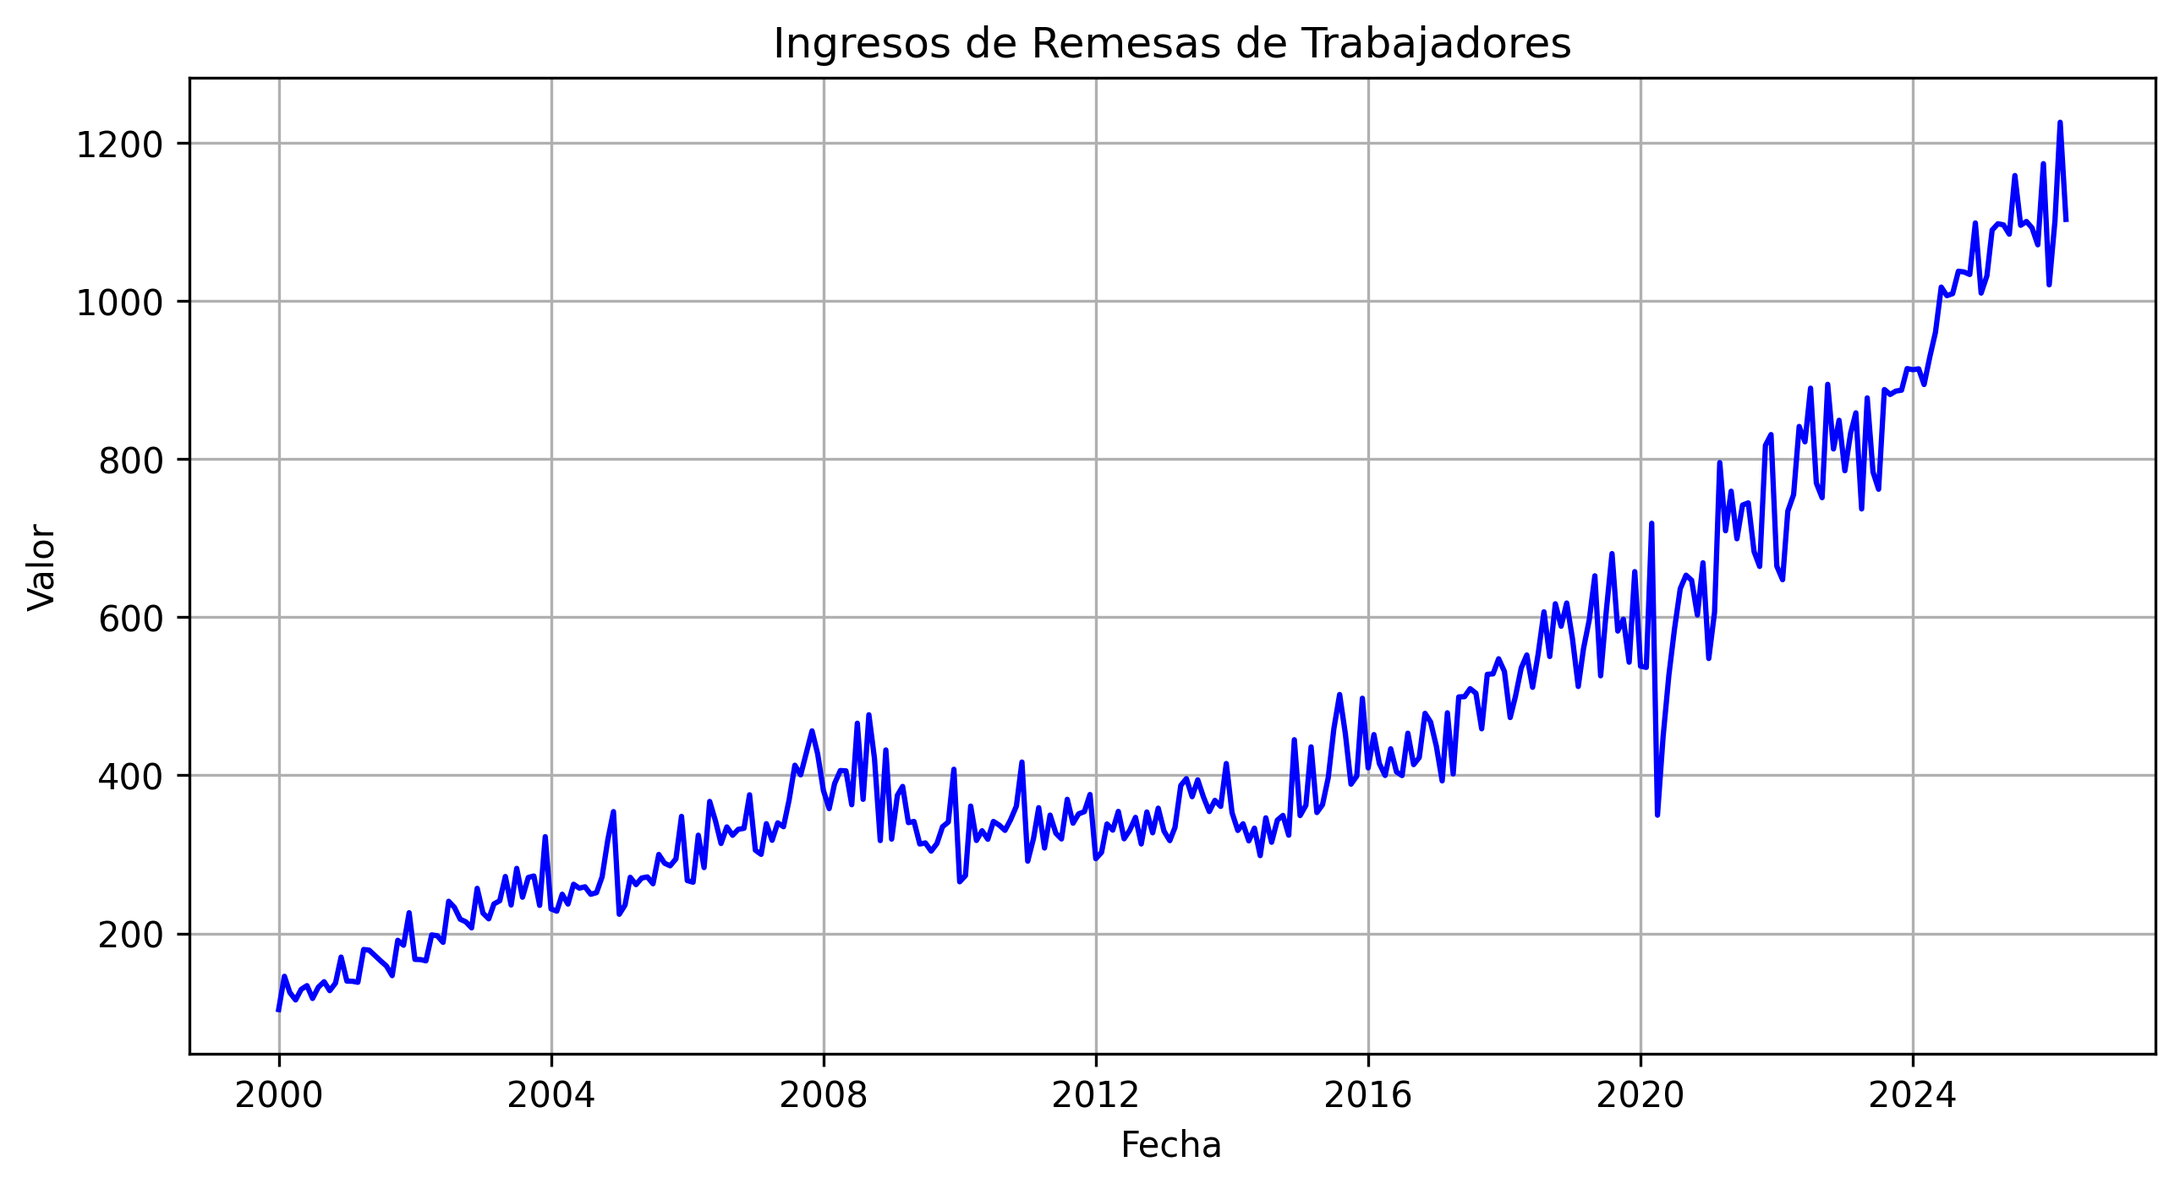
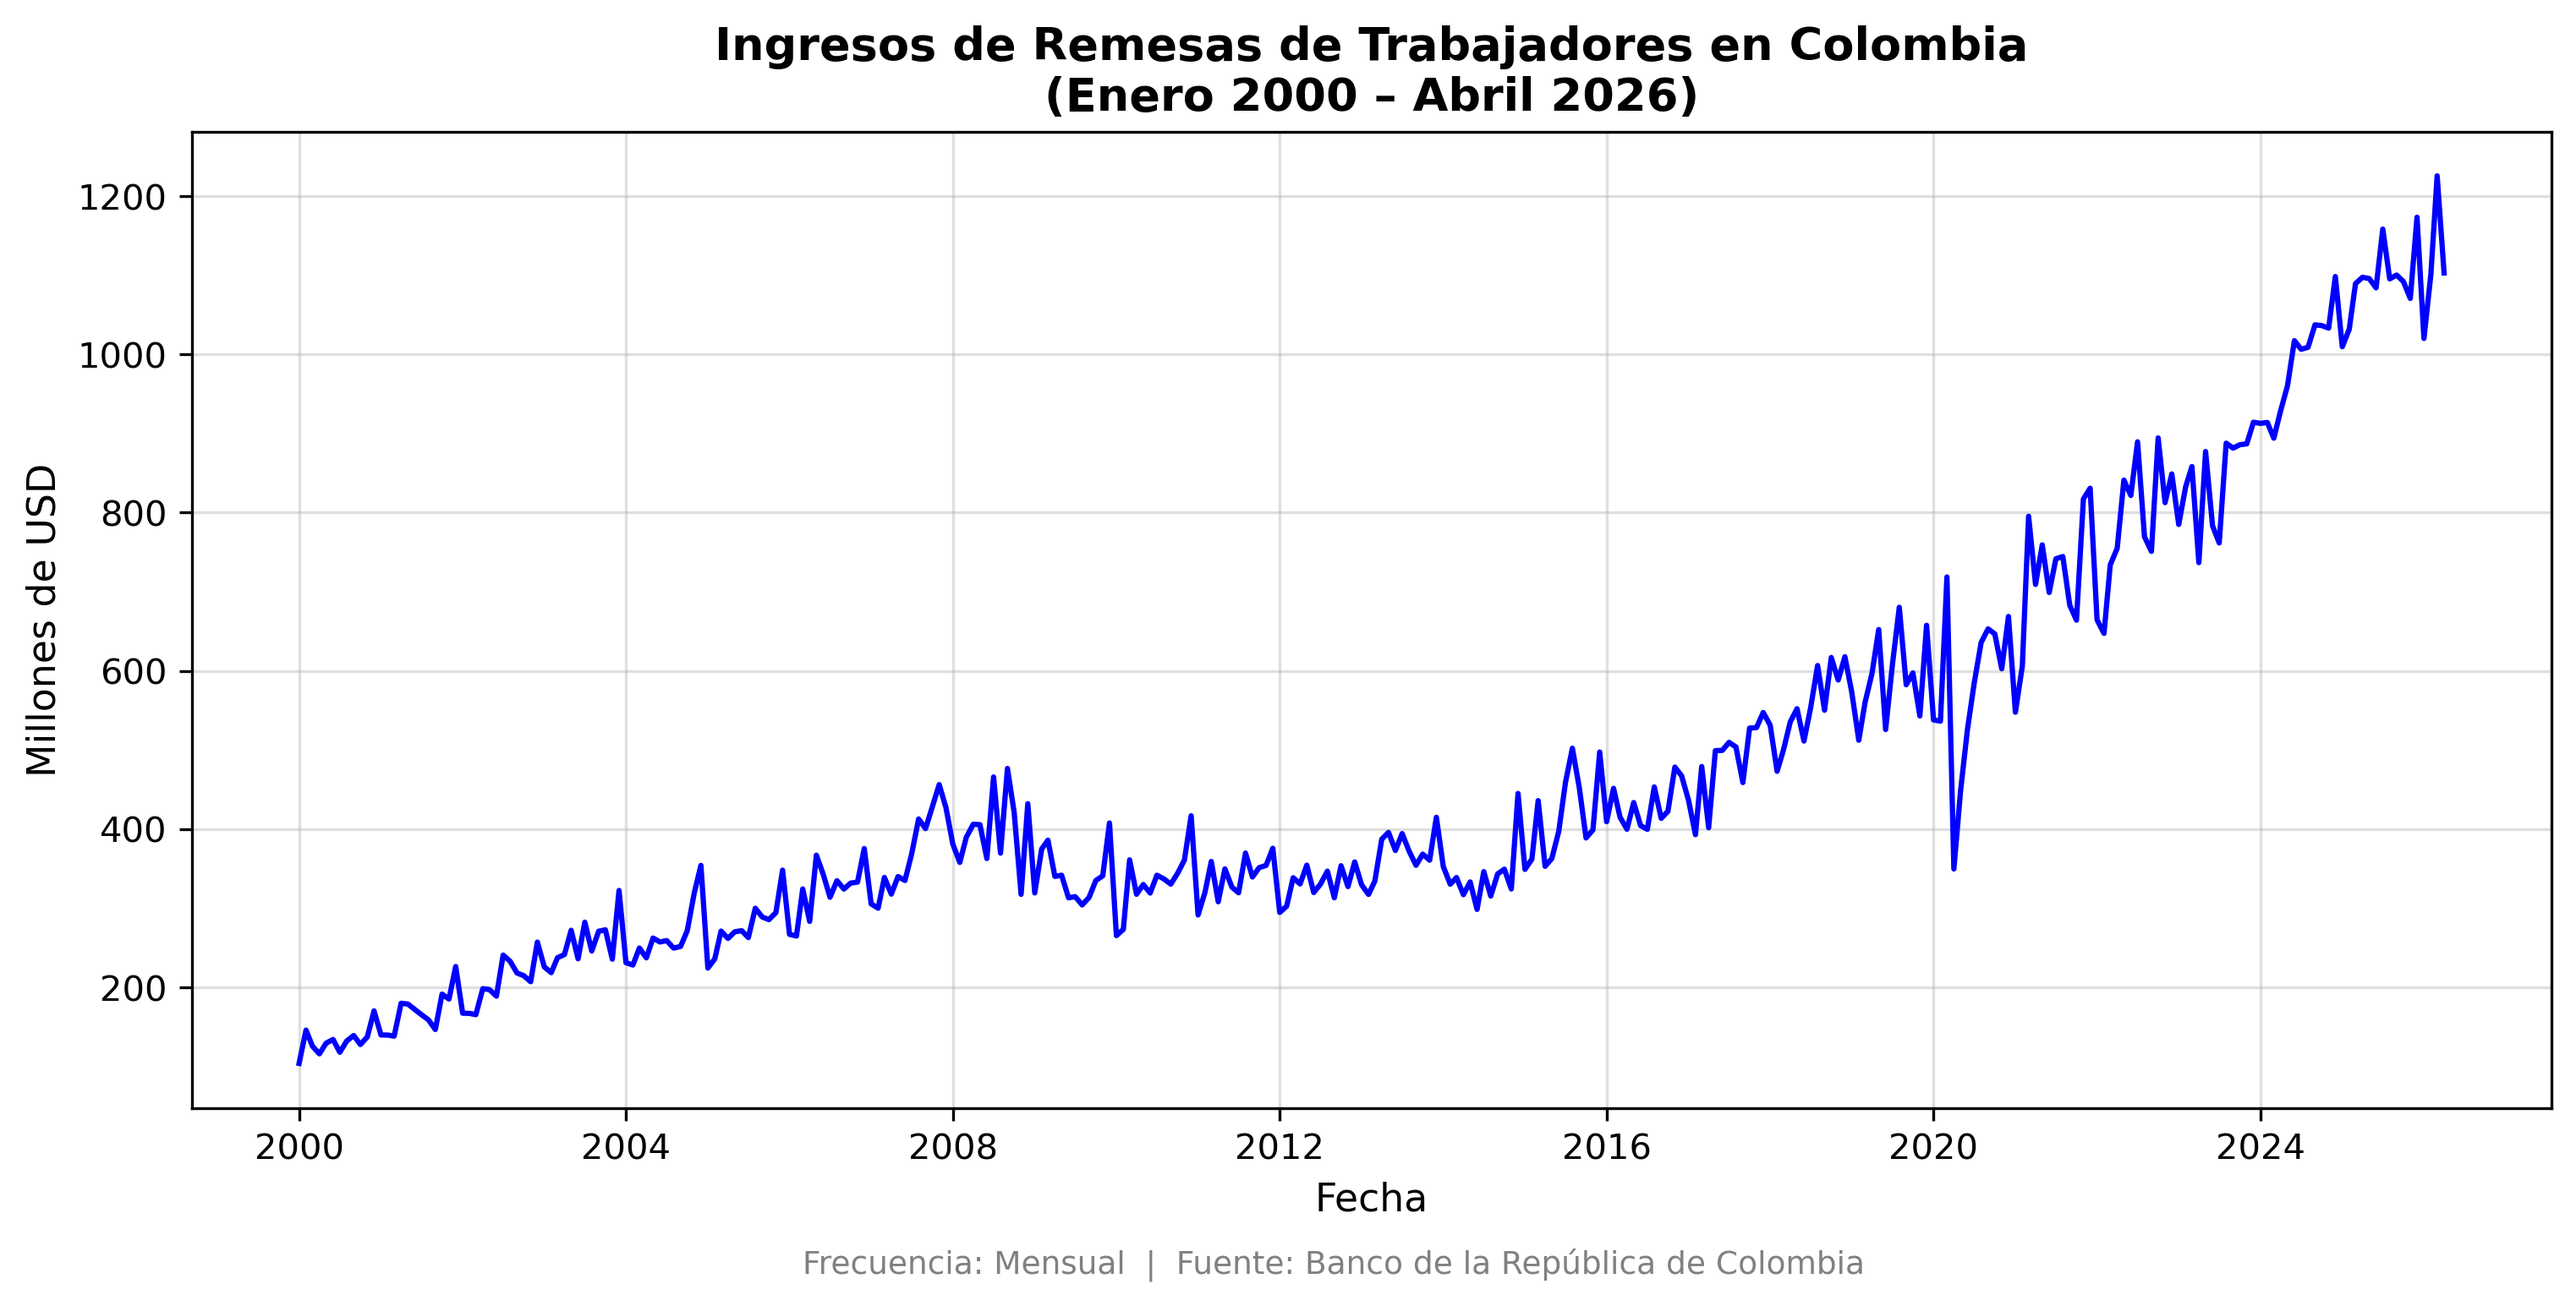
modificaciones

diff --git a/Códigos/archivo1.py b/Códigos/archivo1.py
@@ -29,71 +29,78 @@ RESULTS_DIR = BASE_DIR / "Resultados"
 RESULTS_DIR.mkdir(parents=True, exist_ok=True)
 
 # Rutas de las bases de datos 
-ruta_exp = DATA_DIR / "datos.xlsx" # Base de datos de remesas
+ruta_datos = DATA_DIR / "datos.xlsx" # Base de datos de remesas
 
 
 # %% Cargar y limpiar base de datos =========================
 
 # Base de datos con la serie importada a python
-expo_base = pd.read_excel(
-    ruta_exp,
-    header=None,
-    names=["Ingresos de Remesas de trabajadores"]
+remesas_base = pd.read_excel(
+    ruta_datos,
+    header=0,  # La primera fila contiene los nombres de las columnas
 )
+remesas_base.columns = ["Fecha", "Ingresos de Remesas de trabajadores"] #Nombrar columnas de forma explícita para evitar problemas de lectura
 
 # --- LIMPIEZA DE DATOS (Crucial para eliminar textos informativos y vacíos al final) ---
-# Forzamos la conversión a numérico (los textos del final se convertirán en NaN)
-expo_base["Ingresos de Remesas de trabajadores"] = pd.to_numeric(
-    expo_base["Ingresos de Remesas de trabajadores"], 
+# Convertir Remesas a numérico (los textos del final se convertirán en NaN)
+remesas_base["Ingresos de Remesas de trabajadores"] = pd.to_numeric(
+    remesas_base["Ingresos de Remesas de trabajadores"], 
     errors="coerce"
 )
+# Convertir Fecha a formato datetime (si es necesario)
+remesas_base["Fecha"] = pd.to_datetime(remesas_base["Fecha"], errors="coerce")
+
 # Eliminamos todas las filas que contengan NaN
-expo_base = expo_base.dropna()
+remesas_base = remesas_base.dropna()
 
 # Ver el tipo de objeto de la base de datos (Pandas.DataFrame)
 print("\n--- Información de la Base de Datos ---")
-print(type(expo_base))
+print(type(remesas_base))
+print(f"\nNúmero de observaciones: {len(remesas_base)}") #Confirmar el número de observaciones después de la limpieza
 
 # Ver primeras y últimas observaciones de la base de datos ya limpia
 print("\nPrimeras observaciones cargadas:")
-print(expo_base.head()) 
+print(remesas_base.head()) 
 print("\nÚltimas observaciones cargadas:")
-print(expo_base.tail()) 
+print(remesas_base.tail()) 
 
 
 # %% Creación del índice temporal de las series de tiempo
 
 # Creación del índice temporal (Inicia en 2000 según tus datos)
-fechas_expo_base = pd.date_range(
+fechas_remesas_base = pd.date_range(
     start="2000-01-01", 
-    periods=len(expo_base),
+    periods=len(remesas_base),
     freq="MS"
 )
 
 # Agregar el índice temporal a la base de datos
-expo_base.index = fechas_expo_base
+remesas_base.index = fechas_remesas_base
 
 # Ver primeras y últimas observaciones de la base de datos, ahora con índice temporal
 print("\n--- Base de Datos con Índice Temporal ---")
-print(expo_base.head()) 
-print(expo_base.tail()) 
+print(remesas_base.head()) 
+print(remesas_base.tail()) 
 
 
 # %% Creación de la serie de tiempo de "remesas"
 
-# La nueva serie de tiempo se va a llamar "expo_serie" (para mantener consistencia con tu código)
+# La nueva serie de tiempo se va a llamar "remesas_serie" (para mantener consistencia con tu código)
 # pero ahora apunta a la columna correcta
-expo_serie = expo_base["Ingresos de Remesas de trabajadores"].copy()
+remesas_serie = remesas_base["Ingresos de Remesas de trabajadores"].copy()
 
 # Ver el principio y final de la serie de tiempo
-print("\n--- Serie Temporal Seleccionada (expo_serie) ---")
-print(expo_serie.head())
-print(expo_serie.tail())
-print(type(expo_serie))
+print("\n--- Serie Temporal Seleccionada (remesas_serie) ---")
+print(remesas_serie.head())
+print(remesas_serie.tail())
+print(type(remesas_serie))
 
 # Ver algunas estadísticas descriptivas de la serie de tiempo 
 print("\nEstadísticas descriptivas:")
-print(expo_serie.describe())
+print(remesas_serie.describe())
+print(f"\nUnidad: Millones de dólares (USD)")
+print(f"Frecuencia: Mensual")
+print(f"Fuente: Banco de la República de Colombia")
 
 
 # %% =========================
@@ -101,12 +108,22 @@ print(expo_serie.describe())
 # ============================
 
 # Gráfica de la serie de tiempo "Remesas de trabajadores"
-plt.figure(figsize=(10, 5))
-plt.plot(expo_serie, color="blue", linewidth=1.5)
-plt.title("Ingresos de Remesas de Trabajadores")
-plt.xlabel("Fecha")
-plt.ylabel("Valor")
-plt.grid(True)
+plt.figure(figsize=(12, 5))
+plt.plot(remesas_serie, color="blue", linewidth=1.5)
+plt.title("Ingresos de Remesas de Trabajadores en Colombia\n(Enero 2000 – Abril 2026)", 
+          fontsize=13, fontweight="bold")
+plt.xlabel("Fecha", fontsize=11)
+plt.ylabel("Millones de USD", fontsize=11)  #unidades
+plt.grid(True, alpha=0.4)
+
+# Nota al pie con frecuencia y fuente
+plt.figtext(
+    0.5, -0.02,  # posición: centrado, debajo de la gráfica
+    "Frecuencia: Mensual  |  Fuente: Banco de la República de Colombia",
+    ha="center",  # alineado al centro
+    fontsize=9,
+    color="gray"
+)
 # Guardar gráfico en carpeta de resultados antes de mostrarlo
 plt.savefig(RESULTS_DIR / "01_remesas_original.png", dpi=300, bbox_inches="tight")
 plt.show()
@@ -116,22 +133,25 @@ plt.show()
 fig, axes = plt.subplots(1, 2, figsize=(14, 5))
 
 plot_acf(
-    expo_serie,
+    remesas_serie,
     lags=24,
     alpha=0.05,
     bartlett_confint=False,
     ax=axes[0]
 )
-axes[0].set_title("FAC Remesas de Trabajadores")
+axes[0].set_title("FAC Remesas de Trabajadores", fontsize=12)
+axes[0].set_xlabel("Rezagos")
 
 plot_pacf(
-    expo_serie,
+    remesas_serie,
     lags=24,
     alpha=0.05,
     ax=axes[1]
 )
-axes[1].set_title("FACP de la serie original")
+axes[1].set_title("FACP de la serie original", fontsize=12)
+axes[1].set_xlabel("Rezagos")
 
+plt.suptitle("Funciones de Autocorrelación — Serie Original", fontsize=13, fontweight="bold")
 plt.tight_layout()
 # Guardar gráfico en carpeta de resultados antes de mostrarlo
 plt.savefig(RESULTS_DIR / "02_fac_facp_original.png", dpi=300, bbox_inches="tight")
@@ -140,7 +160,7 @@ plt.show()
 # %% Tests de Raíz Unitaria 
 
 # Test de Augmented Dickey Fuller (ADF)
-adf_result = adfuller(expo_serie) 
+adf_result = adfuller(remesas_serie) 
 
 print("\n=== Test ADF ===")
 print("Estadístico ADF:", adf_result[0])
@@ -157,7 +177,7 @@ else:
     print("ADF: No rechazamos H0. Según el test, la serie no es estacionaria.")
 
 # Test KPSS
-kpss_result = kpss(expo_serie, regression="c", nlags="auto")
+kpss_result = kpss(remesas_serie, regression="c", nlags="auto")
 
 print("\n=== Test KPSS ===")
 print("Estadístico KPSS:", kpss_result[0])
@@ -174,11 +194,11 @@ else:
 
 
 # %% Serie diferenciada
-expo_serie_diff = expo_serie.diff().dropna()
+remesas_serie_diff = remesas_serie.diff().dropna()
 
 # Gráfica de la serie de tiempo diferenciada
 plt.figure(figsize=(10, 5))
-plt.plot(expo_serie_diff, color="orange")
+plt.plot(remesas_serie_diff, color="orange")
 plt.title("Serie Diferenciada (Primera Diferencia)")
 plt.xlabel("Fecha")
 plt.ylabel("Valor")
@@ -189,11 +209,11 @@ plt.show()
 
 # %% Diferencia del logaritmo
 
-expo_serie_log_diff = np.log(expo_serie).diff().dropna()
+remesas_serie_log_diff = np.log(remesas_serie).diff().dropna()
 
 # Gráfica de la diferencia del logaritmo
 plt.figure(figsize=(10, 5))
-plt.plot(expo_serie_log_diff, color="green")
+plt.plot(remesas_serie_log_diff, color="green")
 plt.title("Diferencia del Logaritmo de la Serie Original")
 plt.xlabel("Fecha")
 plt.ylabel("Valor")
@@ -207,7 +227,7 @@ plt.show()
 fig, axes = plt.subplots(1, 2, figsize=(14, 5))
 
 plot_acf(
-    expo_serie_log_diff,
+    remesas_serie_log_diff,
     lags=24,
     alpha=0.05,
     bartlett_confint=False,
@@ -216,7 +236,7 @@ plot_acf(
 axes[0].set_title("FAC de la diferencia del logaritmo")
 
 plot_pacf(
-    expo_serie_log_diff,
+    remesas_serie_log_diff,
     lags=24,
     alpha=0.05,
     ax=axes[1]
@@ -235,7 +255,7 @@ plt.show()
 
 # Creamos el modelo SARIMAX (0, 1, 1) sobre el logaritmo de la serie
 modelo_ma1 = SARIMAX(
-    np.log(expo_serie),
+    np.log(remesas_serie),
     order=(0, 1, 1),
     trend="n",
     enforce_stationarity=False,
@@ -393,7 +413,7 @@ print(tabla_pronostico)
 
 # Gráfica del pronóstico final
 plt.figure(figsize=(12, 6))
-plt.plot(expo_serie, label="Datos Históricos (Remesas)", color="blue")
+plt.plot(remesas_serie, label="Datos Históricos (Remesas)", color="blue")
 plt.plot(pronostico_nivel, label="Pronóstico (12 meses)", color="orange", linestyle="--")
 plt.fill_between(
     pronostico_nivel.index,
